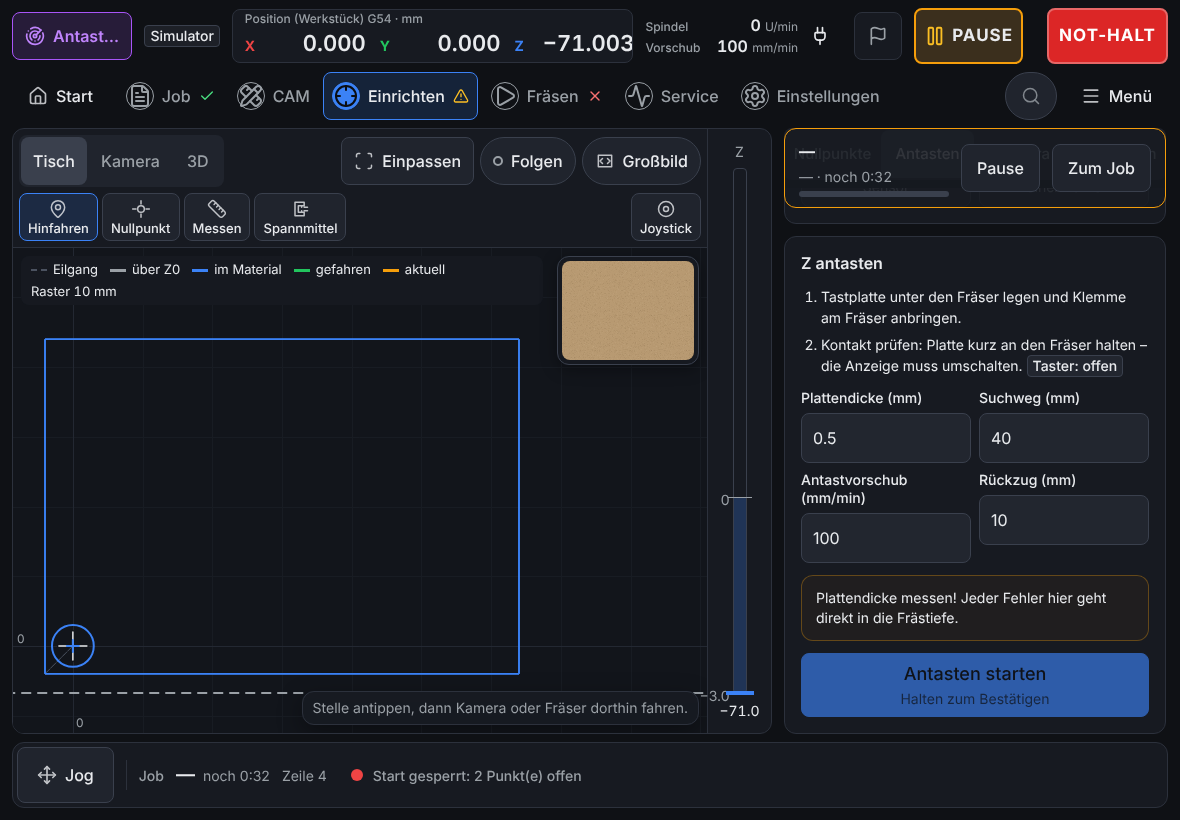
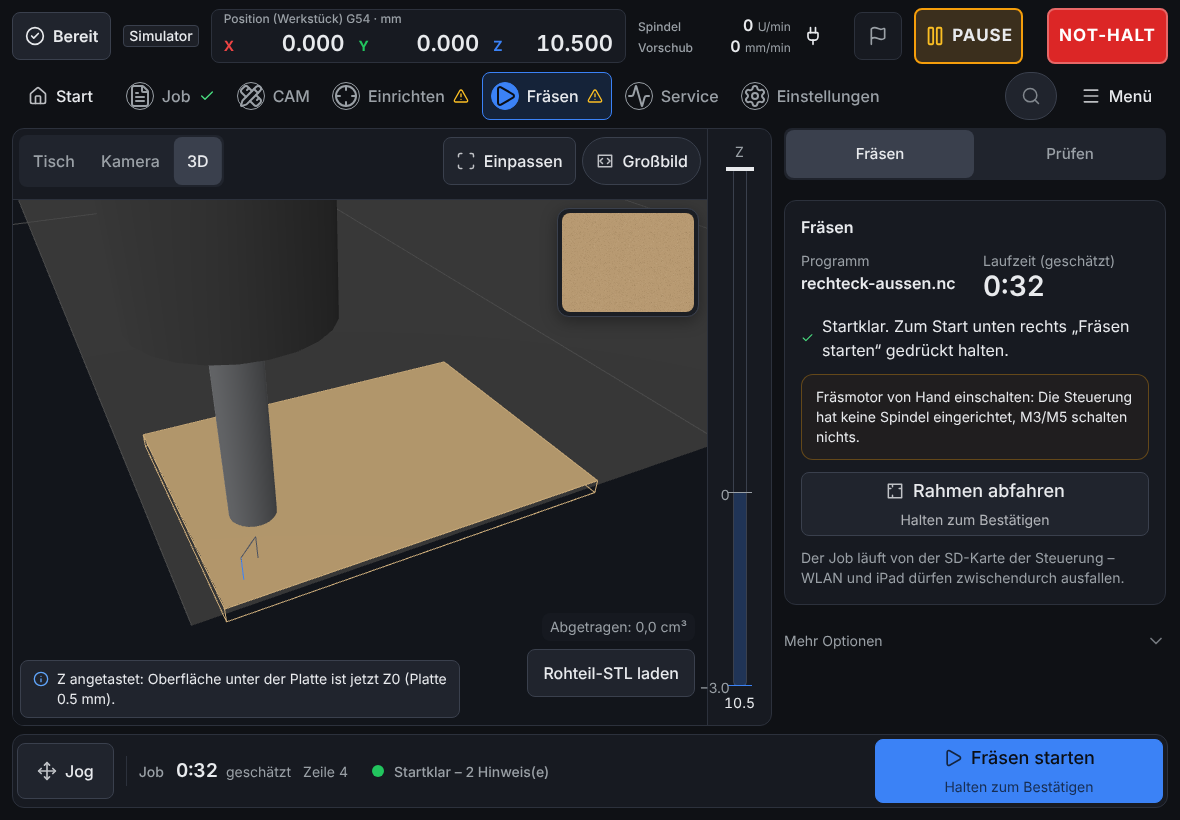
Stage 3 acceptance: counts re-measured (A 12, B 13), screenshots of the docked action, the strip under the dock covered; decision log and morning report
Claude-Session: https://claude.ai/code/session_01D2HtvuxjBH1HzGFNtsWRXK

diff --git a/apps/control/src/styles/rooms.css b/apps/control/src/styles/rooms.css
@@ -1728,3 +1728,15 @@
   border-top: 1px solid var(--border);
   background: var(--card);
 }
+
+/* The panel's own bottom padding lies under a sticky box: without this the content that scrolls
+   past would peek through that strip below the dock. */
+.dock::after {
+  content: '';
+  position: absolute;
+  top: 100%;
+  right: 0;
+  left: 0;
+  height: 0.5rem;
+  background: var(--card);
+}

diff --git a/bewertung/entscheidungen.md b/bewertung/entscheidungen.md
@@ -111,6 +111,14 @@ B2/B3-Antworten des Betreibers: Steuerung geht nach 10 s Funkstille weiter; Z-Gr
 - Widerlegt (je zwei Gegenprüfer): Großbild-Karte zwischen den Teilen in jedem Bereich; `stepAt`-Zweig unbelegt; veralteter Kommentar „Bewegung zählt als unterwegs“; CLAUDE.md/Tastenblatt ohne T·K·D im CAM.
 - **Regel für den Rest der Nacht** (Rat des Advisors): Stufe 2 gilt als abgenommen, wenn alle von uns neu eingeführten Funde und 5/6 behoben sind und der Rest hier mit Grund steht; danach nur ein enger Prüf-Durchgang über die Korrektur-Commits.
 
+## Abnahme Stufe 3 (angedockte Hauptaktion)
+- **Gebaut** (`ui/dock.tsx`, `.dock` in `rooms.css`): ein klebender Fuß der Karte am unteren Rand des Bedienfelds, der eine Knopf bleibt in seiner Karte (nie eine Kopie). Angedockt sind: „Nullpunkt hier setzen“ (`SetZeroCard`), das Antasten (`ProbeCard`, `ProbeWizard`), im Werkzeugwechsel „Fortsetzen“ und „Abbrechen“ (`ToolChangePanel`, unter „Großbild“ am unteren Rand des Streifens unter dem Bild). Dazu: der Einzelschritt-Knopf („Nächster Satz“) steht unter „Großbild“ ebenfalls unter dem Bild (`SingleStepPanel`), die Bestätigungshälfte des Starts zwischen zwei Teilen hat einen Hook-Test.
+- **Festlegungen, bitte prüfen** (Regel 30): (1) **Das CAM-„G-Code erzeugen“ ist bewusst nicht angedockt** – ein Tipp, der ein fremdes Programm ersetzt, soll nicht dauernd neben dem stehen, was man gerade zeichnet. (2) **Das Dock sitzt in der Karte, nicht am Bedienfeld:** erst wenn die Karte im Bild ist, steht ihre Aktion da – sonst wäre „Antasten starten“ schon über den Kacheln sichtbar, bevor man die Werte darunter gesehen hat. (3) **Auf dem Maschinen-Bildschirm (800 × 600) ist das Blatt in „halb“ zu kurz** (~100 px Körper) für Karte und Dock; dort ist „Größer“ der Weg (das Blatt hat seine drei Stellungen dafür).
+- **Messung statt Sichtprüfung:** `e2e/dock.spec.ts` (16 Fälle) und die Prüfungen in `control.spec.ts` messen mit `inReach` (Kasten im sichtbaren Bereich *und* ein Tipp in der Mitte trifft den Knopf); die Fälle schlugen vor dem Bau alle fehl (Knopf bei y≈1127–1900 bei einem Bedienfeld bis y=714). Fehler unterwegs: ein globales `scroll-padding-bottom` verschob den Inhalt des Jog-Felds um 50 px (der Test „bewegt sich nicht unter einem gehaltenen Knopf“ fing es) – jetzt nur noch in Bedienfeldern mit Dock (`:has(.dock)`).
+- **Zählung neu:** Aufgabe A **12** (vorher 13), Aufgabe B **13** (vorher 14), je ein Scroll weniger; siehe `bericht.md`, Nachtrag in Aufgabe 1.
+- **Tests:** alle drei E2E-Projekte grün (299 bestanden, 1 übersprungen), `pnpm check` grün (control 659 Tests); `usability.spec.ts` unverändert grün.
+- **Fund 7, 10 und 11 des Prüf-Durchgangs 4** damit erledigt (Einzelschritt unter „Großbild“, Weiter/Abbrechen im Streifen erreichbar, Bestätigung zwischen Teilen getestet). **Offen:** Fund 12 („Prüfen“ tippbar, aber wirkungslos, solange ein Job wartet).
+
 ## Stand der Bereichs-Oberfläche
 Stufe 1 (sechs Reiter, kein „Weiter“, nichts unten rechts in Prüfen) und Stufe 2 (im CAM nur das CAM und die Statusleiste) sind gebaut, getestet und gepusht (Abnahme siehe oben). **Stufe 3** (angedockte Hauptaktion je Panel) ist mit Entscheidung 31 freigegeben und kommt nach der Korrekturrunde.
 **Regeln des Betreibers:** vor jedem neuen Programmierpunkt Advisor-Plan; offene Fragen als Auswahl zum Anklicken – in der Nacht gilt Entscheidung 30; nie ein PR, nur grüne Stände.

diff --git a/bewertung/morgenbericht.md b/bewertung/morgenbericht.md
@@ -33,7 +33,13 @@ React Testing Library und jsdom sind als Dev-Abhängigkeit installiert (`apps/co
 - „Prüfen“ ist tippbar, aber ohne Wirkung, solange ein Job wartet, ohne Grund (Fund 12).
 - `moveTo`/`moveZ` und das Zurücksetzen bei Reset/Alarm des Schritt-Jogs sind nicht einzeln getestet.
 
+## 5b. Stufe 3 – angedockte Hauptaktion (gebaut, gepusht)
+„Nullpunkt hier setzen“, das Antasten und im Werkzeugwechsel „Fortsetzen“/„Abbrechen“ sitzen jetzt am unteren Rand des Bedienfelds (bzw. des Streifens unter dem Bild bei „Großbild“), solange ihre Karte im Bild ist – der Knopf liegt nur einmal vor, in seiner Karte. Gemessen mit `e2e/dock.spec.ts` bei vier Fenstergrößen. Zählung neu: A 12 Eingaben (vorher 13), B 13 (vorher 14). **Festlegungen, bitte prüfen:** das CAM-„G-Code erzeugen“ bleibt absichtlich ungedockt (es ersetzt ein fremdes Programm mit einem Tipp); das Dock sitzt in der Karte, nicht am ganzen Bedienfeld (damit „Antasten starten“ nie sichtbar ist, bevor man die Werte der Karte gesehen hat); auf dem Maschinen-Bildschirm braucht das Blatt dafür die Stellung „ganz“. Screenshots: `bewertung/screenshots/Dock-*.png`.
+
+## 5c. README
+Die README ist komplett auf die sechs Bereiche umgeschrieben (Entscheidung 39): Bereich für Bereich aus dem Code und den deutschen Oberflächentexten, danach von drei Prüfern (Beschriftungen, Orte, Vollständigkeit) gegengelesen, ihre Korrekturen sind eingearbeitet. Sie ist länger geworden (110 statt 40 KB), weil sie jetzt je Bereich beschreibt, was dort wirklich steht – kürzen kannst du jederzeit.
+
 ## 6. Reihenfolge der Nacht und was noch kommt
-Stufe 3 (angedockte Hauptaktion je Panel) in drei Teilen · dann die vier Gruppen der Änderungsliste (Schnittwerte & Lauf-Richtung · Merkpunkte & Werkzeugwechsel-Knopf · Projekte sichern · Kleinkram) · README (Entscheidung 39).
+Stufe 3 ist gebaut · jetzt die vier Gruppen der Änderungsliste (Schnittwerte & Lauf-Richtung · Merkpunkte & Werkzeugwechsel-Knopf · Projekte sichern · Kleinkram) · README (Entscheidung 39).
 
 *(wird fortgeschrieben)*

diff --git a/bewertung/bericht.md b/bewertung/bericht.md
@@ -73,6 +73,8 @@ nicht gezählt. Es wurde nicht festgestellt, ob der gezählte Lauf den Job von d
 weil der erste Tipp aufs Bild nur die Auswahl der gezeichneten Form aufhebt. Belege: `B3-1440x900-01…-14` (Auswahl aufgehoben: `-05`, Zielmarke erst
 `-06`; Endzustand `-14`); gleiche Reihe mit `1180x820`.
 
+**Nachtrag: neu gemessen nach der Bereichs-Oberfläche (Stufen 1 bis 3, 1180 × 820, `skripte/a8.cjs`, `skripte/b3.cjs`).** Aufgabe A: **12 Eingaben = 10 Tipps/Halten + 1 Dateiauswahl + 1 Scroll** (vorher 13 mit 2 Scrolls); Aufgabe B: **13 Eingaben = 12 Tipps/Halten + 1 Scroll** (vorher 14 mit 2 Scrolls). Nicht schlechter, je ein Scroll weniger: „Nullpunkt hier setzen“ steht jetzt angedockt am Rand des Bedienfelds und ist ohne Rollen erreichbar. Der eine übrige Scroll gilt „Antasten starten“: die Karte des Zyklus liegt unter den Kacheln und braucht ohnehin einen Blick auf ihre Werte, deshalb dockt erst die Karte, die im Bild ist, ihre Aktion an (die Aktion soll nie sichtbar sein, bevor die Werte darüber es sind). Belege: `A8-1180x820-*.png`, `B3-1180x820-*.png`, `Dock-1280x800-Nullpunkt.png`, `Dock-800x600-Nullpunkt.png`; die Messung der Lage selbst macht `apps/control/e2e/dock.spec.ts` (Kasten des Knopfes im sichtbaren Bedienfeld *und* ein Tipp in seiner Mitte trifft ihn, bei 1280 × 800, 800 × 600 mit Blatt „ganz“, 1180 × 820 und 820 × 1180).
+
 **Was die Zahlen nicht sind:**
 - Die mitgelieferte `lowrider-demo.html` startet *vorbefüllt* (referenziert, Job geladen, Nullpunkt, Werkzeug gesetzt): bis „Läuft“
   nur 2 Eingaben (`D-demo-1/2.png`). Sie ist ein Vorführzustand, **kein Maß**. `lowrider-control.html` ist byte-identisch mit einem
